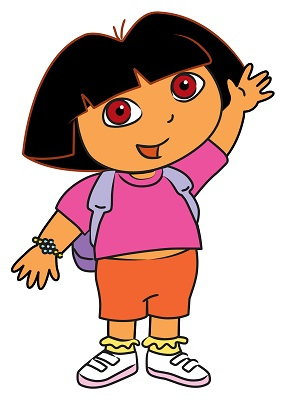
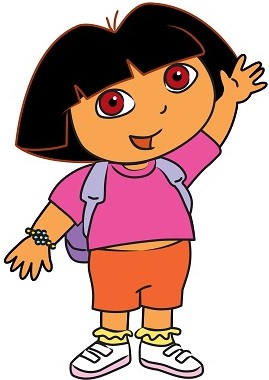
Aplico diseño responsive

Changed region(s): [[0.0, 0.0, 1.0, 1.0]]

diff --git a/index.html b/index.html
@@ -3,92 +3,96 @@
 <head>
     <meta charset="UTF-8">
     <meta http-equiv="X-UA-Compatible" content="IE=edge">
-    <meta name="viewport" content="width=device-width, initial-scale=1.0">
+    <meta name="viewport" content="width=device-width, user-scalable= no, initial-scale= 1.0, maximum-scale= 1.0, minimum-scale= 1.0">
     <title>Calcula, Dora</title>
     <!--Estilos-->
     <link rel="stylesheet" href="estilos.css">
+    <link rel="stylesheet" href="responsive.css">
+
     <link rel="preconnect" href="https://fonts.gstatic.com" crossorigin>
     <link href="https://fonts.googleapis.com/css2?family=Gloria+Hallelujah&display=swap" rel="stylesheet">
     <link rel="preconnect" href="https://fonts.googleapis.com">
-<link rel="preconnect" href="https://fonts.gstatic.com" crossorigin>
-<link href="https://fonts.googleapis.com/css2?family=Secular+One&display=swap" rel="stylesheet">
+    <link rel="preconnect" href="https://fonts.gstatic.com" crossorigin>
+    <link href="https://fonts.googleapis.com/css2?family=Secular+One&display=swap" rel="stylesheet">
 
 </head>
 <body>
+    <h1>Calcula, DORA!</h1>
     <!--contenedor total de la imagen + titulo + calculadora-->
     <div class="total-container">
-        <div class="img-container">
-            <h1>Calcula, DORA!</h1>
-            <img src="calculaDora.jpg" alt="Dora la exploradora" class="dora-img">
+        
+        <div class="img-container">            
+         
         </div>
 
-        <!--Aca empieza la calculadora-->
-        <div class="contenedor-calculadora">
-            <div id="calculadoraJS">
-                
-                <input type="text" value="0" class="calculadora-display" id="displayJS">
-
-                    <div class="calculator-keypad">
-                        <div class="keypad-numbers">
-                           
-                            <div class="btn">
-                            <input type="button" class="" value="7" id="num7" onclick="display_numeros(7)">
-                            </div>
-                            <div class="btn">
-                            <input type="button" value="8" id="num8" onclick="display_numeros(8)">
-                            </div>
-                            <div class="btn">
-                            <input type="button" value="9" id="num9" onclick="display_numeros(9)">
-                            </div>
-                            <div class="btn grande color">
-                            <input type="button" value="C" id="valorC">
-                            </div>
-                            <div class="btn">
-                            <input type="button" value="4" id="num4" onclick="display_numeros(4)">
-                            </div>
-                            <div class="btn">
-                            <input type="button" value="5" id="num5" onclick="display_numeros(5)">
-                            </div>
-                            <div class="btn">
-                            <input type="button" value="6" id="num6" onclick="display_numeros(6)">
-                            </div>
-                            <div class="btn">
-                            <input type="button" value="-" id="valorRestar" onclick="resta()">
-                            </div>
-                            <div class="btn">
-                            <input type="button" value="+" id="valorSumar" onclick="suma()">
-                            </div>
-                            <div class="btn">
-                            <input type="button" value="1" id="num1" onclick="display_numeros(1)">
-                            </div>
-                            <div class="btn">
-                            <input type="button" value="2" id="num2" onclick="display_numeros(2)">
-                            </div>
-                            <div class="btn">
-                            <input type="button" value="3" id="num3" onclick="display_numeros(3)">
-                            </div>
-                            <div class="btn">
-                            <input type="button" value="/" id="valorDividir">
-                            </div>
-                            <div class="btn">
-                            <input type="button" value="*" id="valorMultiplicar">
-                            </div>
-                            <div class="btn">
-                            <input type="button" value="%" id="valorPorcentaje">
-                            </div>
-                            <div class="btn">
-                            <input type="button" value="." id="valorPunto">
-                            </div>
-                            <div class="btn">
-                            <input type="button" value="=" id="valorIgual" onclick="resultado()">
-                            </div>
-                            <div class="btn grande">
-                            <input type="button" value="0" id="valorCero" onclick="display_numeros(0)">
+        <!--Aca empieza la calculadora------------------------------------>
+        <div class="contenedor-total-calculadora">
+            <div class="contenedor-calculadora">
+                <div id="calculadoraJS">
+            
+                    <input type="text" value="0" class="calculadora-display" id="displayJS">
+                        <div class="calculator-keypad">
+                            <div class="keypad-numbers">
+            
+                                <div class="btn">
+                                <input type="button" class="" value="7" id="num7" onclick="display_numeros(7)">
+                                </div>
+                                <div class="btn">
+                                <input type="button" value="8" id="num8" onclick="display_numeros(8)">
+                                </div>
+                                <div class="btn">
+                                <input type="button" value="9" id="num9" onclick="display_numeros(9)">
+                                </div>
+                                <div class="btn grande color">
+                                <input type="button" value="C" id="valorC">
+                                </div>
+                                <div class="btn">
+                                <input type="button" value="4" id="num4" onclick="display_numeros(4)">
+                                </div>
+                                <div class="btn">
+                                <input type="button" value="5" id="num5" onclick="display_numeros(5)">
+                                </div>
+                                <div class="btn">
+                                <input type="button" value="6" id="num6" onclick="display_numeros(6)">
+                                </div>
+                                <div class="btn">
+                                <input type="button" value="-" id="valorRestar" onclick="resta()">
+                                </div>
+                                <div class="btn">
+                                <input type="button" value="+" id="valorSumar" onclick="suma()">
+                                </div>
+                                <div class="btn">
+                                <input type="button" value="1" id="num1" onclick="display_numeros(1)">
+                                </div>
+                                <div class="btn">
+                                <input type="button" value="2" id="num2" onclick="display_numeros(2)">
+                                </div>
+                                <div class="btn">
+                                <input type="button" value="3" id="num3" onclick="display_numeros(3)">
+                                </div>
+                                <div class="btn">
+                                <input type="button" value="/" id="valorDividir">
+                                </div>
+                                <div class="btn">
+                                <input type="button" value="*" id="valorMultiplicar">
+                                </div>
+                                <div class="btn">
+                                <input type="button" value="%" id="valorPorcentaje">
+                                </div>
+                                <div class="btn">
+                                <input type="button" value="." id="valorPunto">
+                                </div>
+                                <div class="btn">
+                                <input type="button" value="=" id="valorIgual" onclick="resultado()">
+                                </div>
+                                <div class="btn grande">
+                                <input type="button" value="0" id="valorCero" onclick="display_numeros(0)">
+                                </div>
                             </div>
                         </div>
-                    </div>
+                </div>
             </div>
-   
+
         </div>
     </div>
 

diff --git a/estilos.css b/estilos.css
@@ -7,18 +7,61 @@
 }
 
 body{
-    background-image: linear-gradient(#e2e60f, #ec2a67);
+    background-image: linear-gradient(#e56809, #ec2a67);
 }
+
+
+h1{
+    font-family: 'Gloria Hallelujah', cursive;
+    color: #f9f7fa;
+    letter-spacing: 5px;
+    font-size: 40px;
+    text-align: center;
+    /*border: 2px solid black;*/
+}
+
+
+/*----------------------------------------------------------------------------contenido---------------------*/
 
 .total-container{
     margin: auto;
-    width: 96%;
+    width: 98%;
+    max-width: 1200px;
     height: 100vh;
     display: flex;
+    flex-wrap: wrap;
     justify-content: space-around;
-    align-items: center;
     background: #fff;
-    padding: 10px;
+    /*border: 2px solid blue;*/
+    border-radius: 15px;
+    overflow: hidden;
+}
+
+
+/*---------------------------------------------------------------imagen Dora---------------------------------*/
+.img-container{
+    width: 25%;
+    height: 100vh;
+   /* border: 2px solid yellow;*/
+    
+    background-image: url(calculaDora.jpg);
+    background-repeat: no-repeat;
+    background-position: center;
+    background-size: contain;
+}
+
+
+
+/*-----------------------------------------------------------------------------Calculadora------------------------*/
+
+.contenedor-total-calculadora{
+    /*border: 4px solid rgb(2, 241, 26);*/
+    width: 50%;
+    height: 100vh;
+    min-width: 310px;
+    display: flex;
+    align-items: center;
+    justify-content: center;
 }
 
 .contenedor-calculadora{
@@ -82,26 +125,6 @@ input{
     border: 0;
     font-size: 55px;
     cursor: pointer;
-}
-
-h1{
-    font-family: 'Gloria Hallelujah', cursive;
-    color: #b13eeb;
-    letter-spacing: 2px;
-    font-size: 55px;
-    padding: 10px;
-    margin-left: 40px;
-}
-
-.img-container{
-    display: flex;
-    flex-direction: column;
-    justify-content: center;
-    text-align: center;
-}
-
-.dora-img{
-    margin-left: 100px;
 }
 
 .grande{

diff --git a/responsive.css b/responsive.css
@@ -1,0 +1,65 @@
+
+
+/*------------------------------------------------------------------------------------576px-------------------*/
+@media screen and (max-width: 576px){
+    .total-container{
+        width: 100%;
+        border-radius: 1px;
+        
+    }
+    
+    h1{        
+        letter-spacing: 3px;
+        font-size: 35px;
+                
+    }
+
+    .contenedor-total-calculadora{
+        width: 60%;
+        }
+
+}
+
+
+
+/*------------------------------------------------------------------------------------320px-------------------*/
+@media screen and (max-width: 320px){
+
+    h1{        
+        letter-spacing: 2px;
+        font-size: 20px;
+        
+        
+    }
+
+    .total-container{
+        width: 100%;
+        height: auto;
+        display: flex;
+        flex-direction: column;
+        margin: auto;
+        
+    }
+
+    .total-container .img-container{
+        width: 200px;
+        height: 300px;
+        margin: auto;
+    }
+
+    .total-container .contenedor-total-calculadora{
+        width: 320px;
+        height: auto;
+        margin: auto;
+       
+    }
+
+    .contenedor-calculadora{
+        border: 8px solid #F2789F;
+        width: 100%;
+        border-radius: 12px;
+        
+    }
+    
+
+}
